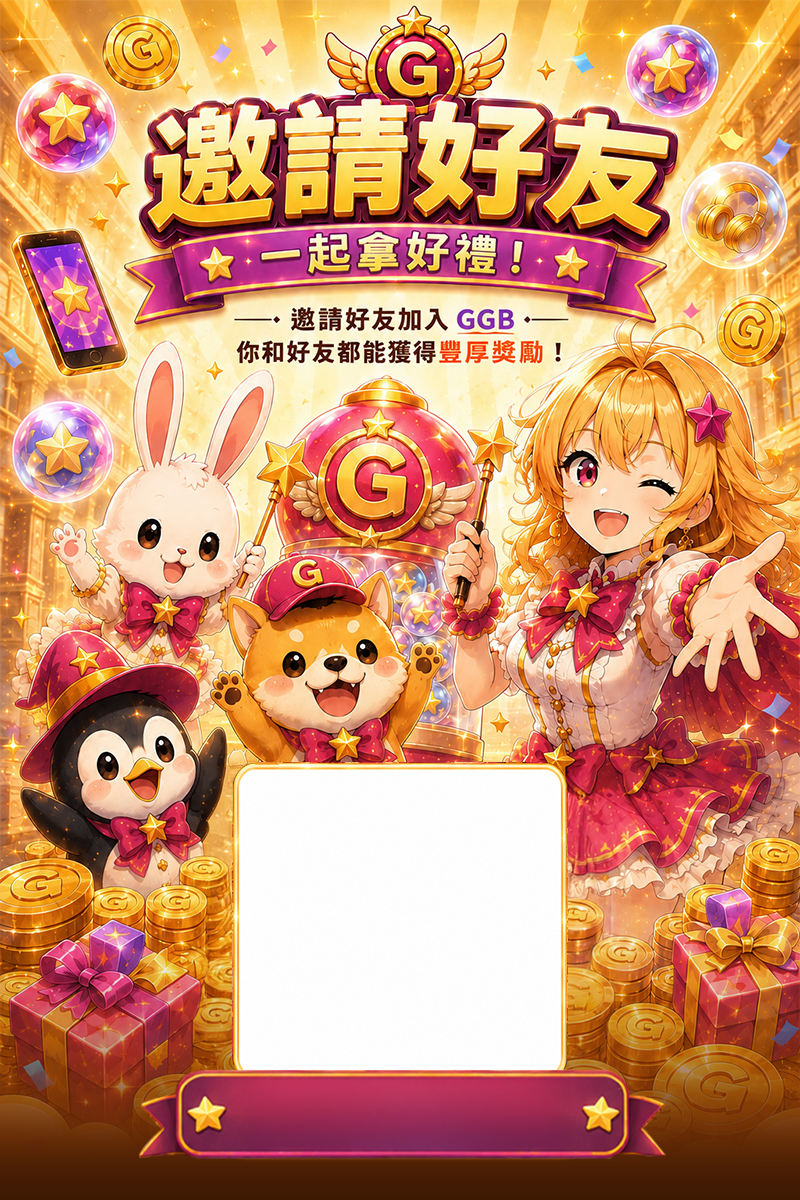
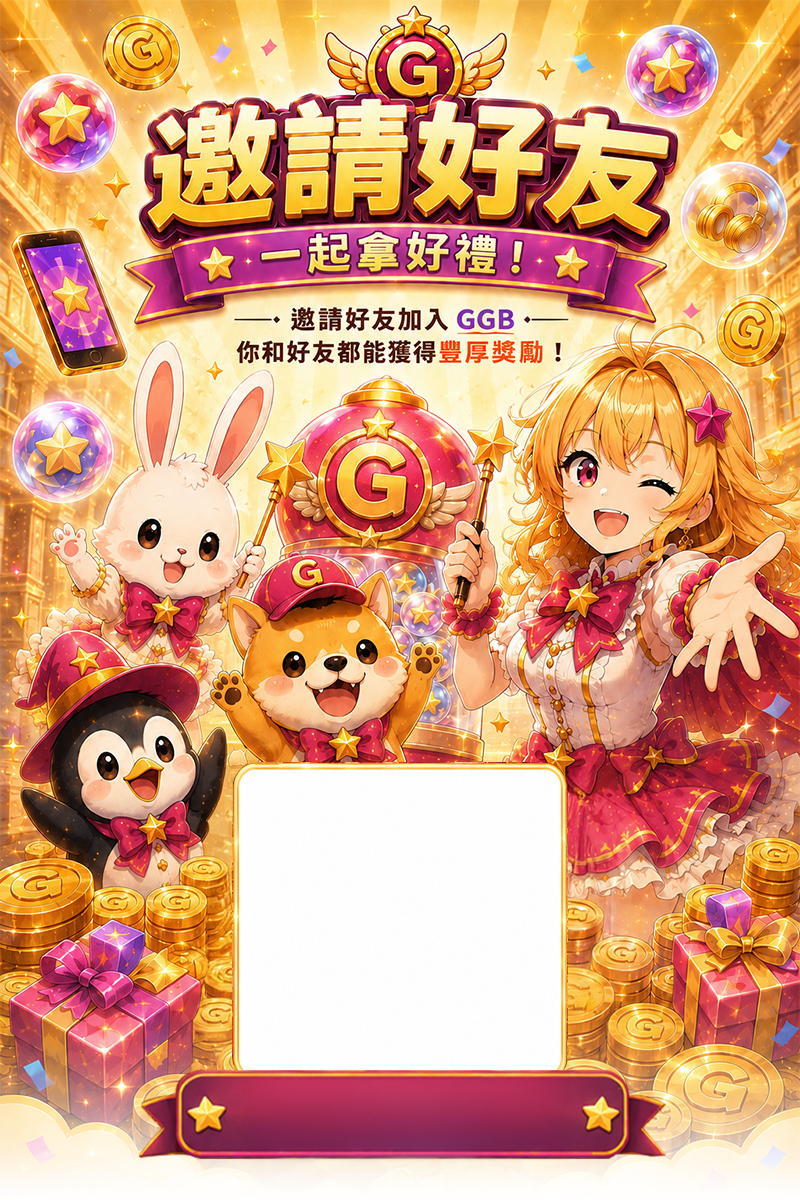
style: 邀請頁下方改白底淺色版（老闆換圖，hero 底緣改漸白）
- 新圖實測：白框/紅旗座標跟前版一致，QR 與邀請碼對位不用動
- 下方區塊白底：標題換深琥珀漸層（白底上淺金會糊）、進度卡
  淺暖底 #fffbea、進度條軌道米色、領取鈕維持金漸層
- 上一輪誤報「沒紅旗」是掃描起點跳過旗區，實際還在 92% 原位

Changed region(s): [[0.0, 0.8017, 1.0, 1.0]]

diff --git a/frontend/app/invite/page.tsx b/frontend/app/invite/page.tsx
@@ -225,7 +225,7 @@ export default function InvitePage() {
   const filled = status ? (claimable > 0 ? step : status.cycleProgress) : 0;
 
   return (
-    <div className="min-h-screen" style={{ background: '#401a03' }}>
+    <div className="min-h-screen bg-white">
       {/* 主視覺滿版：手機上左右貼齊瀏覽器邊（老闆指定）；
           桌機給寬度上限與圓角，不然 800px 的圖會被拉到糊 */}
       <div className="relative w-full md:mx-auto md:mt-4 md:max-w-md md:overflow-hidden md:rounded-t-3xl">
@@ -266,35 +266,35 @@ export default function InvitePage() {
         )}
       </div>
 
-      {/* 循環獎專區 —— 活動頁設計語言，背景 #401a03 銜接 hero 底緣
-         （實測 #3f1a03，肉眼同色）。只推一件事：每 5 位免費抽 */}
-      <div className="w-full md:mx-auto md:max-w-md md:rounded-b-3xl" style={{ background: '#401a03' }}>
-        <div className="px-5 pb-16 pt-12">
+      {/* 循環獎專區 —— 白底（老闆指定，hero 底緣就是漸白）、
+          活動頁設計語言的淺色版，主題色亮黃金。只推一件事：每 5 位免費抽 */}
+      <div className="w-full bg-white md:mx-auto md:max-w-md">
+        <div className="px-5 pb-16 pt-10">
           <h2
             className="text-center text-[clamp(24px,6.5vw,32px)] font-black leading-tight tracking-wide"
-            style={{ background: GOLD_GRAD, WebkitBackgroundClip: 'text', backgroundClip: 'text', color: 'transparent', WebkitTextStroke: '1.2px #e8b84a' }}
+            style={{ background: AMBER_GRAD, WebkitBackgroundClip: 'text', backgroundClip: 'text', color: 'transparent', WebkitTextStroke: '1.2px #d99a00' }}
           >
             每邀 5 位好友
             <br />
             免費抽一次
           </h2>
-          <p className="mt-3 text-center text-[13px] font-bold leading-relaxed" style={{ color: ACCENT }}>
+          <p className="mt-3 text-center text-[13px] font-bold leading-relaxed" style={{ color: '#c77f00' }}>
             好友用 LINE 加入就算成功，每滿 5 位領 100 積分，次數無上限
           </p>
 
-          {/* 進度卡 */}
+          {/* 進度卡 —— 淺色暖底 */}
           <div
             className="mt-8 rounded-2xl border p-5"
-            style={{ borderColor: LP_BORDER, background: LP_CARD }}
+            style={{ borderColor: '#f3dfae', background: '#fffbea' }}
           >
             <div className="flex items-baseline justify-between">
-              <span className="text-[13px] font-bold text-white/60">邀請進度</span>
+              <span className="text-[13px] font-bold text-neutral-500">邀請進度</span>
               {status ? (
-                <span className="text-[13px] font-black text-white">
-                  累計 <span style={{ color: ACCENT }}>{status.qualified}</span> 位
+                <span className="text-[13px] font-black text-neutral-800">
+                  累計 <span style={{ color: '#c77f00' }}>{status.qualified}</span> 位
                 </span>
               ) : (
-                <span className="h-3.5 w-16 animate-pulse rounded bg-white/10" />
+                <span className="h-3.5 w-16 animate-pulse rounded bg-neutral-200" />
               )}
             </div>
 
@@ -306,13 +306,13 @@ export default function InvitePage() {
                   className="h-3 flex-1 rounded-full transition-colors"
                   style={{
                     background: i < filled
-                      ? 'linear-gradient(180deg,#fff3b0,#ffd24a 55%,#e8a820)'
-                      : 'rgba(0,0,0,0.35)',
+                      ? 'linear-gradient(180deg,#ffe27a,#ffc93c 55%,#e8a820)'
+                      : '#efe7d2',
                   }}
                 />
               ))}
             </div>
-            <p className="mt-2 text-right text-[11px] font-bold text-white/40">
+            <p className="mt-2 text-right text-[11px] font-bold text-neutral-400">
               {status
                 ? claimable > 0
                   ? '達標了，快領取'
@@ -326,8 +326,8 @@ export default function InvitePage() {
               disabled={claiming || claimable <= 0}
               className="mt-4 flex h-12 w-full items-center justify-center rounded-full text-[16px] font-black transition-transform active:scale-[0.97] disabled:active:scale-100"
               style={claimable > 0
-                ? { background: GOLD_GRAD, color: '#3a2c08', boxShadow: '0 8px 26px rgba(255,210,74,0.35)' }
-                : { background: 'rgba(0,0,0,0.35)', color: 'rgba(255,255,255,0.35)' }}
+                ? { background: GOLD_GRAD, color: '#3a2c08', boxShadow: '0 8px 26px rgba(255,201,60,0.45)' }
+                : { background: '#f0ece0', color: '#b6ad98' }}
             >
               {claiming
                 ? <Loader2 className="h-5 w-5 animate-spin" />
@@ -335,10 +335,10 @@ export default function InvitePage() {
             </button>
           </div>
 
-          <p className="mt-6 text-center text-[12px] font-bold leading-relaxed text-white/55">
+          <p className="mt-6 text-center text-[12px] font-bold leading-relaxed text-neutral-500">
             新朋友用你的碼加入並綁定 LINE，馬上送他 300 積分
           </p>
-          <p className="mt-1.5 text-center text-[11px] font-semibold leading-relaxed text-white/30">
+          <p className="mt-1.5 text-center text-[11px] font-semibold leading-relaxed text-neutral-400">
             好友也可以之後在會員中心填寫邀請碼
           </p>
         </div>
@@ -347,8 +347,9 @@ export default function InvitePage() {
   );
 }
 
-/** 活動頁（LpRenderer）同款金黃漸層；卡片配色按其公式以 #401a03 為底、亮黃為主題色推導 */
+/**
+ * 活動頁（LpRenderer）同款金黃漸層（按鈕用）；
+ * 標題在白底上要更深的琥珀漸層才撐得住對比（淺金會糊掉）
+ */
 const GOLD_GRAD = 'linear-gradient(180deg,#fffbe6,#ffd24a 46%,#a9760c 62%,#ffcf5a)';
-const ACCENT = '#ffe14d';
-const LP_BORDER = 'rgb(112,62,37)';
-const LP_CARD = 'linear-gradient(180deg,rgb(82,43,14),rgb(72,34,8))';
+const AMBER_GRAD = 'linear-gradient(180deg,#ffc93c,#f0a500 55%,#c77f00)';
